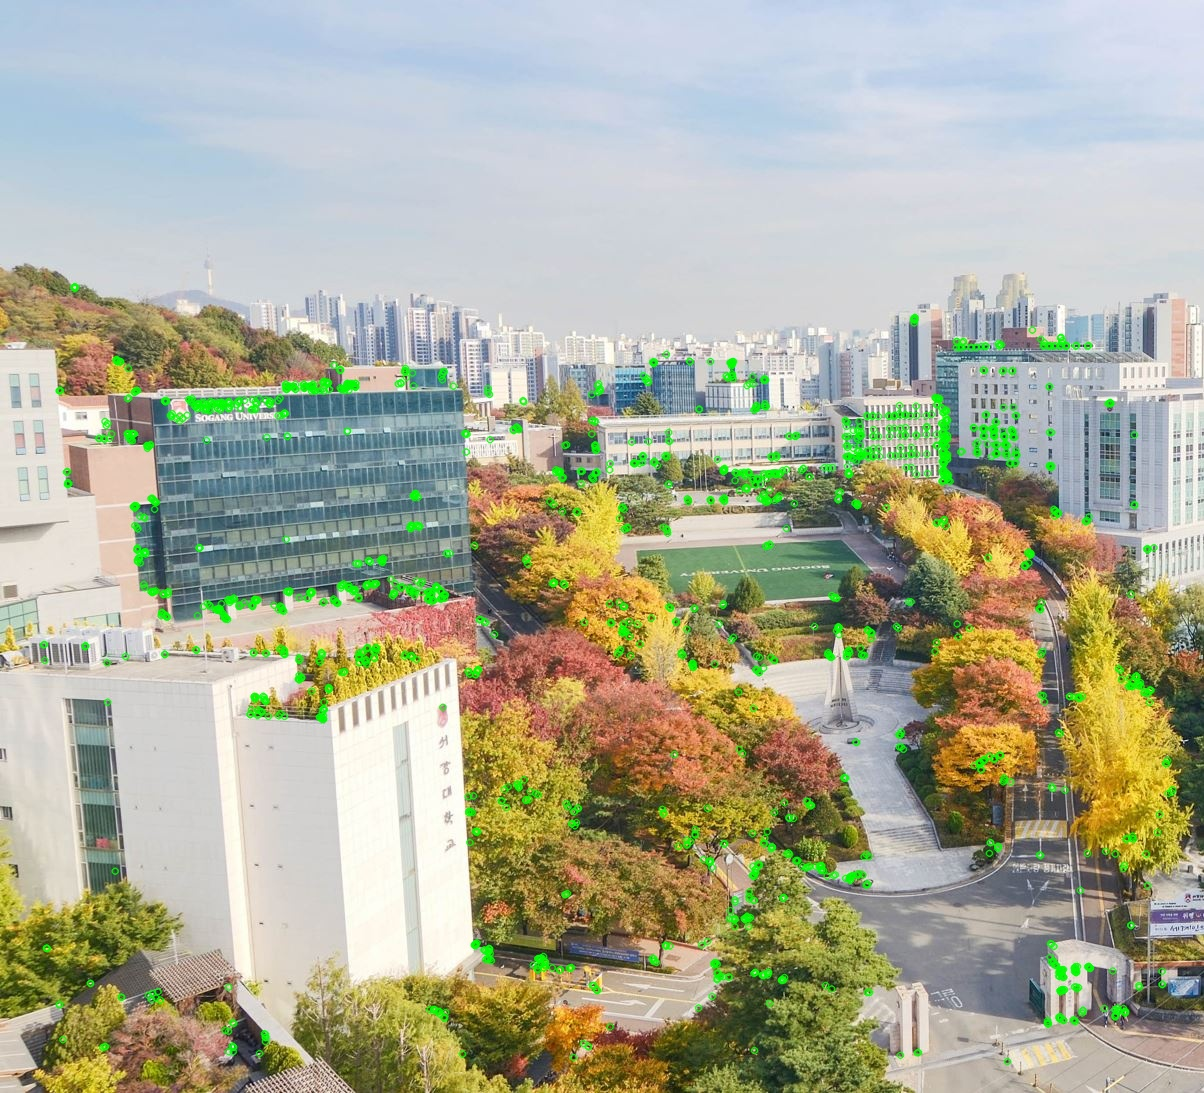
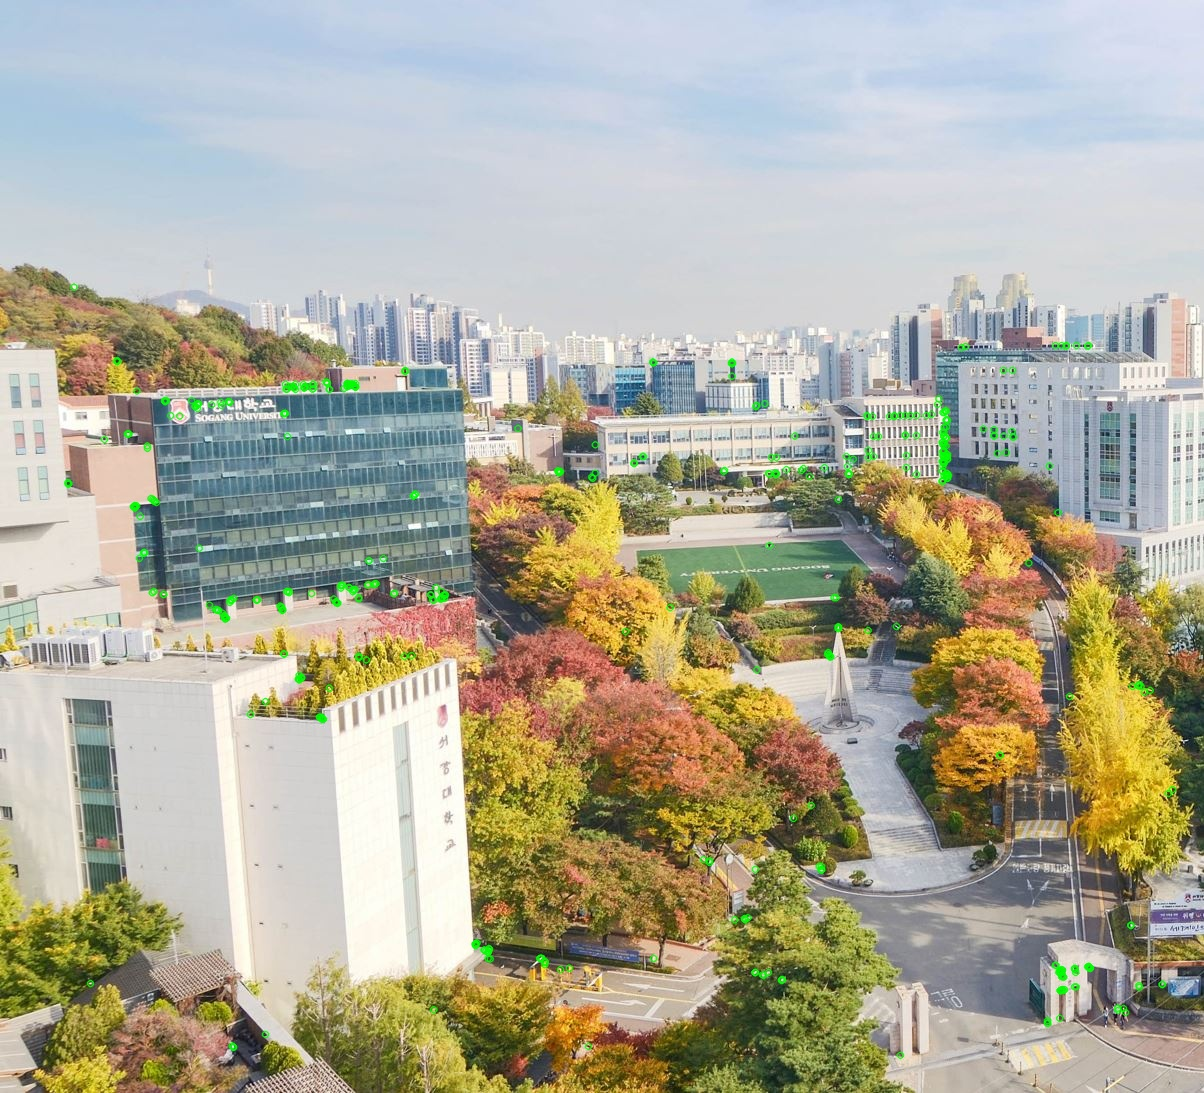
:hammer:단계별로 이미지 저장하도록 코드 변경

diff --git a/project1.py b/project1.py
@@ -1,7 +1,7 @@
 import cv2
 import numpy as np
 import math
-from ransac_homography import ransac_homography, calculate_ransac_iterations, apply_homography, find_best_threshold
+from ransac_homography import ransac_homography, calculate_ransac_iterations, apply_homography, find_best_threshold, count_inliers
 from warpImage import warpImages
 import os
 
@@ -37,7 +37,7 @@ def main(image_name):
     # 매치 간의 거리 비율을 사용하여 0.75보다 낮은 매치를 필터링
     good_matches = [m for m, n in matches if m.distance < 0.75 * n.distance]
     img_matches = cv2.drawMatches(img1, kp1, img2, kp2, good_matches, None)
-    cv2.imwrite(f'result/{image_name}_output_matches.jpg', img_matches)
+    cv2.imwrite(f'keypoint_matches/{image_name}_output_matches.jpg', img_matches)
 
     # 좋은 매치 수 확인 특징점이 4개보다 적은 경우 해당 이미지를 건너뜀
     if len(good_matches) < 4:
@@ -53,15 +53,16 @@ def main(image_name):
 
     data = np.hstack((src_pts, dst_pts)) #매칭 리스트
     max_iterations = calculate_ransac_iterations()
-    M, best_threshold = find_best_threshold(data, outlier_ratio, max_iterations)
+    M, best_threshold = find_best_threshold(image_name, data, outlier_ratio, max_iterations)
     print(f"Best threshold: {best_threshold}")
 
-    # 5. prepare a panorama image of larger size (DIY) 더 큰 크기의 파노라마 이미지 준비
-    h1, w1, _ = img1.shape
-    h2, w2, _ = img2.shape
-    # panorama_w = w1 + w2
-    # panorama_h = max(h1, h2)
+    # RANSAC을 사용하여 찾은 inliers를 기반으로 매칭 이미지 생성
+    inliers_idx = count_inliers(M, src_pts, dst_pts, best_threshold)
+    inlier_matches = [good_matches[i] for i in inliers_idx]
+    img_inlier_matches = cv2.drawMatches(img1, kp1, img2, kp2, inlier_matches, None)
+    cv2.imwrite(f'ransac_homography_result/{image_name}_output_inlier_matches.jpg', img_inlier_matches)
 
+    # 5. prepare a panorama image of larger size (DIY) 더 큰 크기의 파노라마 이미지 준비
     # 6. warp two images to the panorama image using the homography matrix (DIY) homography matrix을 사용하여 이미지 왜곡
     panorama = warpImages(img2, img1, M)
 
@@ -72,3 +73,5 @@ def main(image_name):
 if __name__=='__main__':
     image_number = input("이미지 번호를 입력하세요 (예: 1, 2, ...): ")
     main(f'image{image_number}')
+    # for i in range(1,9):
+    #     main(f'image{i}')

diff --git a/ransac_homography.py b/ransac_homography.py
@@ -43,24 +43,42 @@ def count_inliers(H, src_pts, dst_pts, threshold):
     distances = np.linalg.norm(transformed_pts - dst_pts, axis=1)
     return np.where(distances < threshold)[0]
 
-def find_best_threshold(data, thresholds, max_iterations=100):
+def find_best_threshold(image_name, data, thresholds, max_iterations=100):
     best_threshold = None
     best_model = None
     max_inliers_count = 0
+
+    # inlier 개수를 저장할 리스트 초기화
+    inliers_counts = []
 
     for threshold in thresholds:
         model = ransac_homography(data, max_iterations, threshold)
         src_pts = data[:, :2]
         dst_pts = data[:, 2:]
         inliers_idx = count_inliers(model, src_pts, dst_pts, threshold)
-        
+
+        # 각 threshold에 대한 inlier 개수 저장
+        inliers_counts.append(len(inliers_idx))
+
         # 각 threshold에 대한 inlier 개수 출력
-        print(f"Threshold: {threshold}, Inliers: {len(inliers_idx)}")
+        # print(f"Threshold: {threshold}, Inliers: {len(inliers_idx)}")
         
         if len(inliers_idx) > max_inliers_count:
             max_inliers_count = len(inliers_idx)
             best_model = model
             best_threshold = threshold
+
+    # 그래프 그리기
+    plt.figure(figsize=(10, 6))
+    plt.plot(thresholds, inliers_counts, marker='o', linestyle='-')
+    plt.title('Inliers count by Threshold')
+    plt.xlabel('Threshold')
+    plt.ylabel('Number of Inliers')
+    plt.grid(True)
+    
+    # 그래프를 파일로 저장
+    # plt.savefig(f'ransac_homography_result/{image_name}_inliers_graph.png', dpi=300)
+    # plt.close()
 
     return best_model, best_threshold
 

diff --git a/warpImage.py b/warpImage.py
@@ -27,7 +27,12 @@ def warpImages(img1, img2, H):
     H_translation = np.array([[1, 0, translation_dist[0]], [0, 1, translation_dist[1]], [0, 0, 1]])
     H = np.dot(H_translation, H)
 
+    # 5. prepare a panorama image of larger size (DIY) 더 큰 크기의 파노라마 이미지 준비
     # 출력 이미지의 크기를 설정하고 초기화합니다.
+    h1, w1, _ = img1.shape
+    h2, w2, _ = img2.shape
+    # panorama_w = w1 + w2
+    # panorama_h = max(h1, h2)
     output_shape = (y_max - y_min, x_max - x_min, 3)
     output_img = np.zeros(output_shape, dtype=img2.dtype)
 
